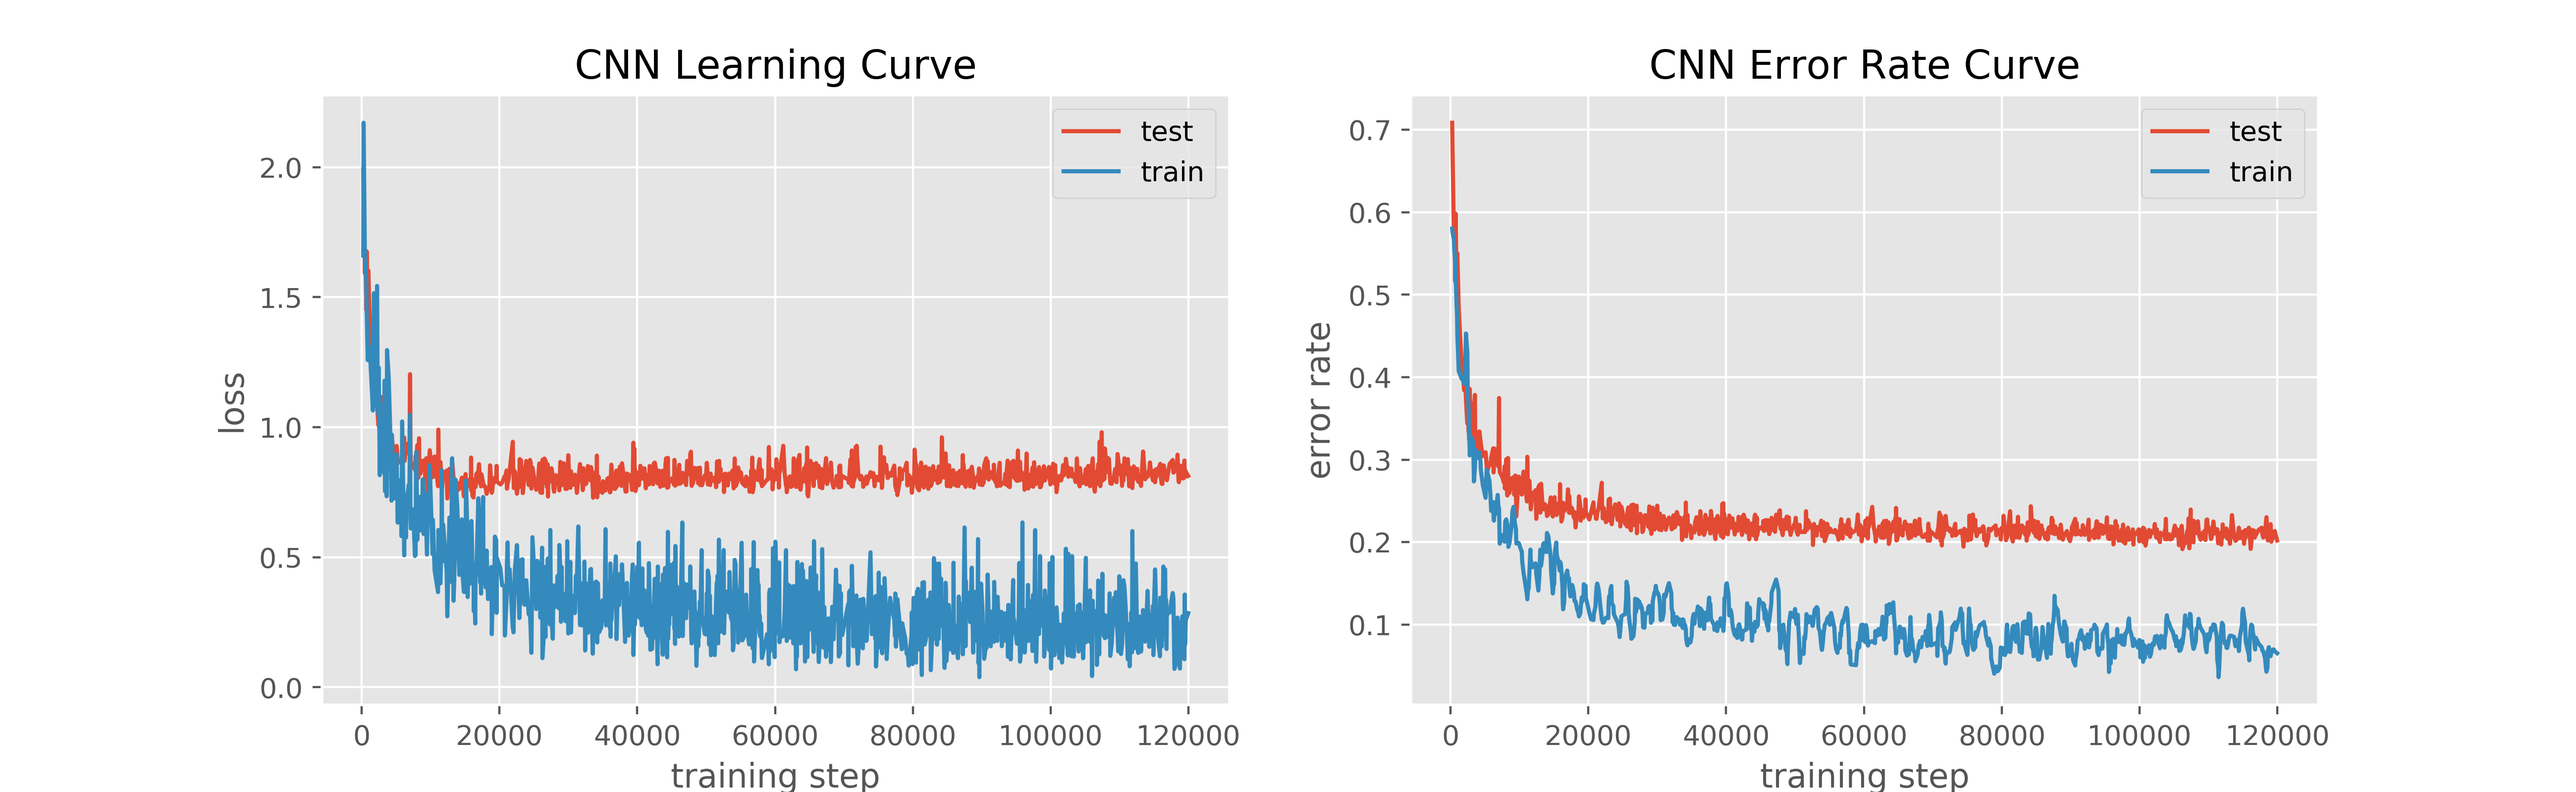
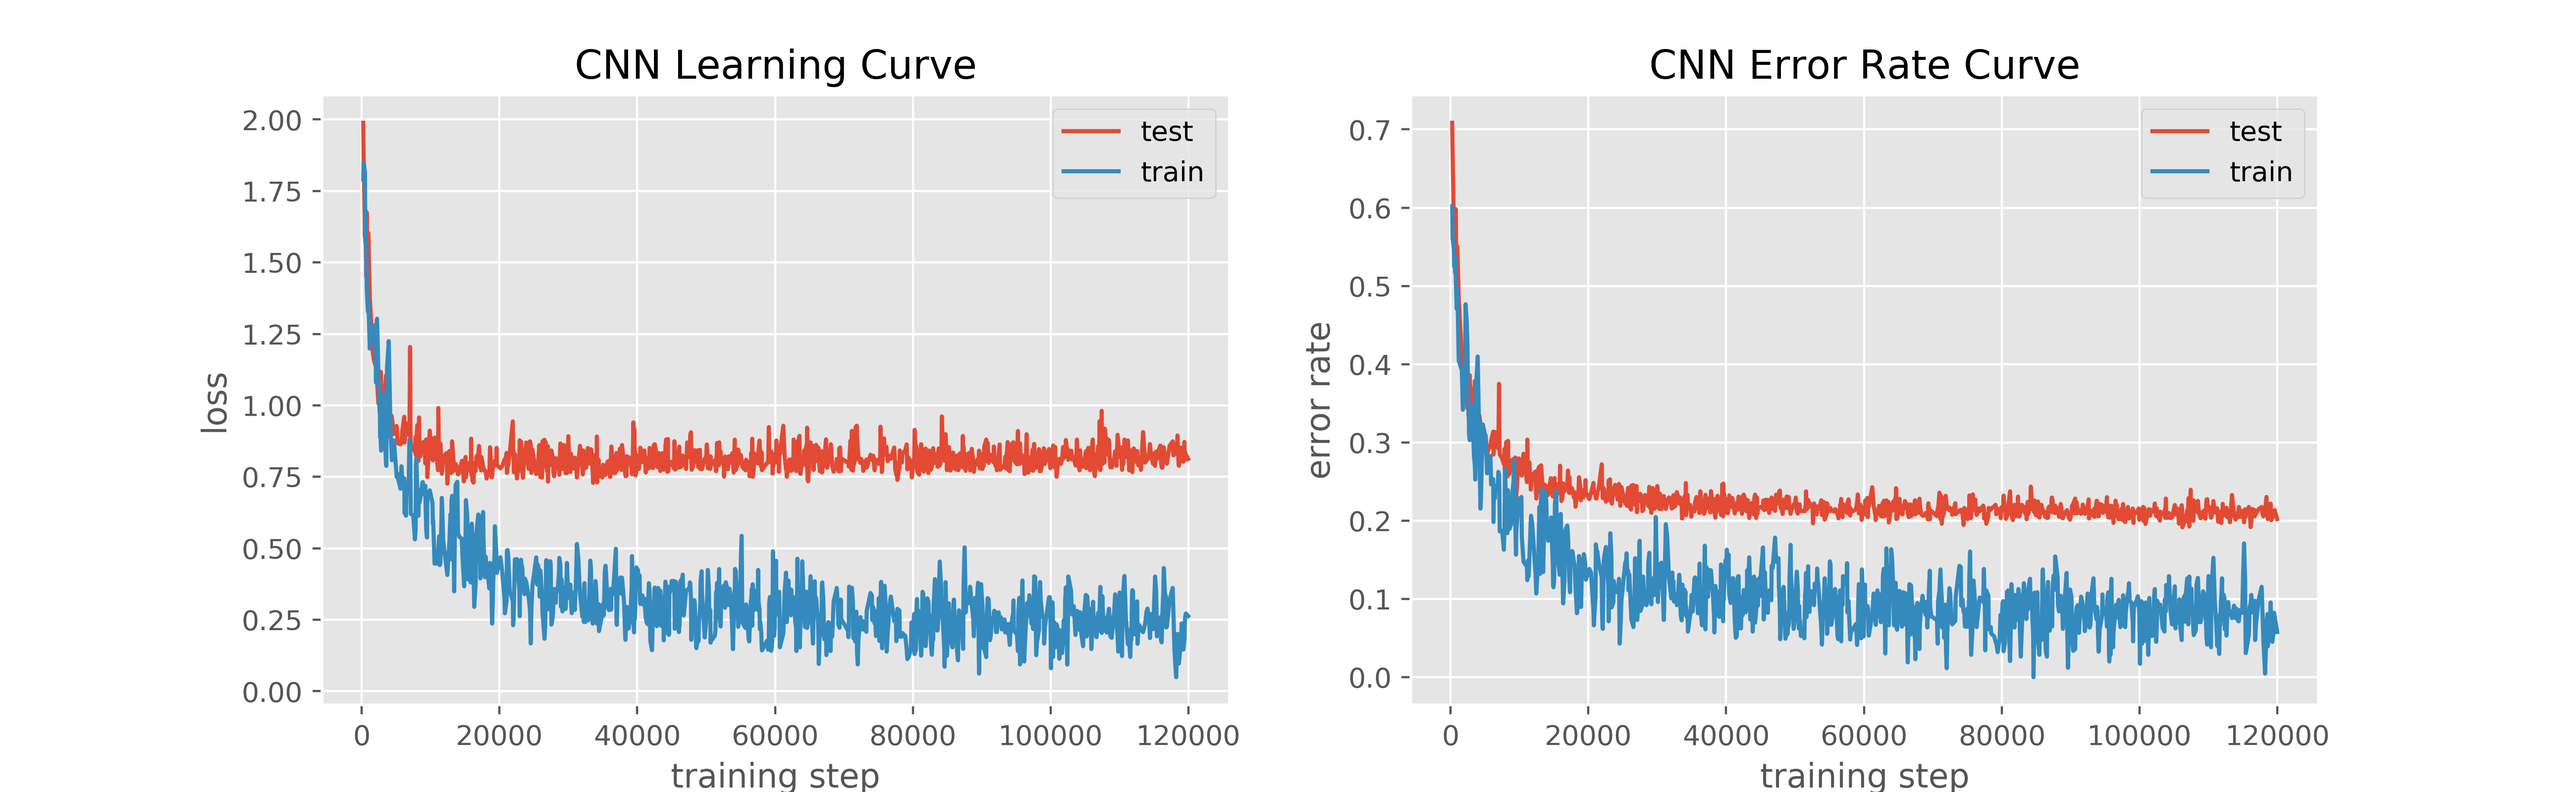
cm

diff --git a/report_cnn.py b/report_cnn.py
@@ -156,7 +156,7 @@ f = csv.DictReader(
         './result/csv/run-SmallCNN5_crop8_wd0.0001_dropout_train-tag-loss.csv',
         'r'))
 step, value = zip(*[(int(r['Step']), float(r['Value'])) for r in f])
-axs[0].plot(step, (value), label='train')
+axs[0].plot(step, smoothing(value, a=5), label='train')
 axs[0].set_xlabel('training step')
 axs[0].set_ylabel('loss')
 axs[0].set_title('CNN Learning Curve')
@@ -167,13 +167,13 @@ f = csv.DictReader(
         './result/csv/run-SmallCNN5_crop8_wd0.0001_dropout_test-tag-accuracy.csv',
         'r'))
 step, value = zip(*[(int(r['Step']), 1 - float(r['Value'])) for r in f])
-axs[1].plot(step, smoothing(value, a=3), label='test')
+axs[1].plot(step, (value), label='test')
 f = csv.DictReader(
     open(
         './result/csv/run-SmallCNN5_crop8_wd0.0001_dropout_train-tag-accuracy.csv',
         'r'))
 step, value = zip(*[(int(r['Step']), 1 - float(r['Value'])) for r in f])
-axs[1].plot(step, smoothing(value, a=11), label='train')
+axs[1].plot(step, smoothing(value, a=5), label='train')
 axs[1].set_xlabel('training step')
 axs[1].set_ylabel('error rate')
 axs[1].set_title('CNN Error Rate Curve')

diff --git a/main_prob1_print.py b/main_prob1_print.py
@@ -13,6 +13,7 @@ import os
 
 from cnn_model import CNN, DenseNet, SmallCNN, ResNet
 from sklearn.metrics import confusion_matrix
+from sklearn.utils.multiclass import unique_labels
 
 def plot_confusion_matrix(y_true, y_pred, classes,
                           normalize=False,
